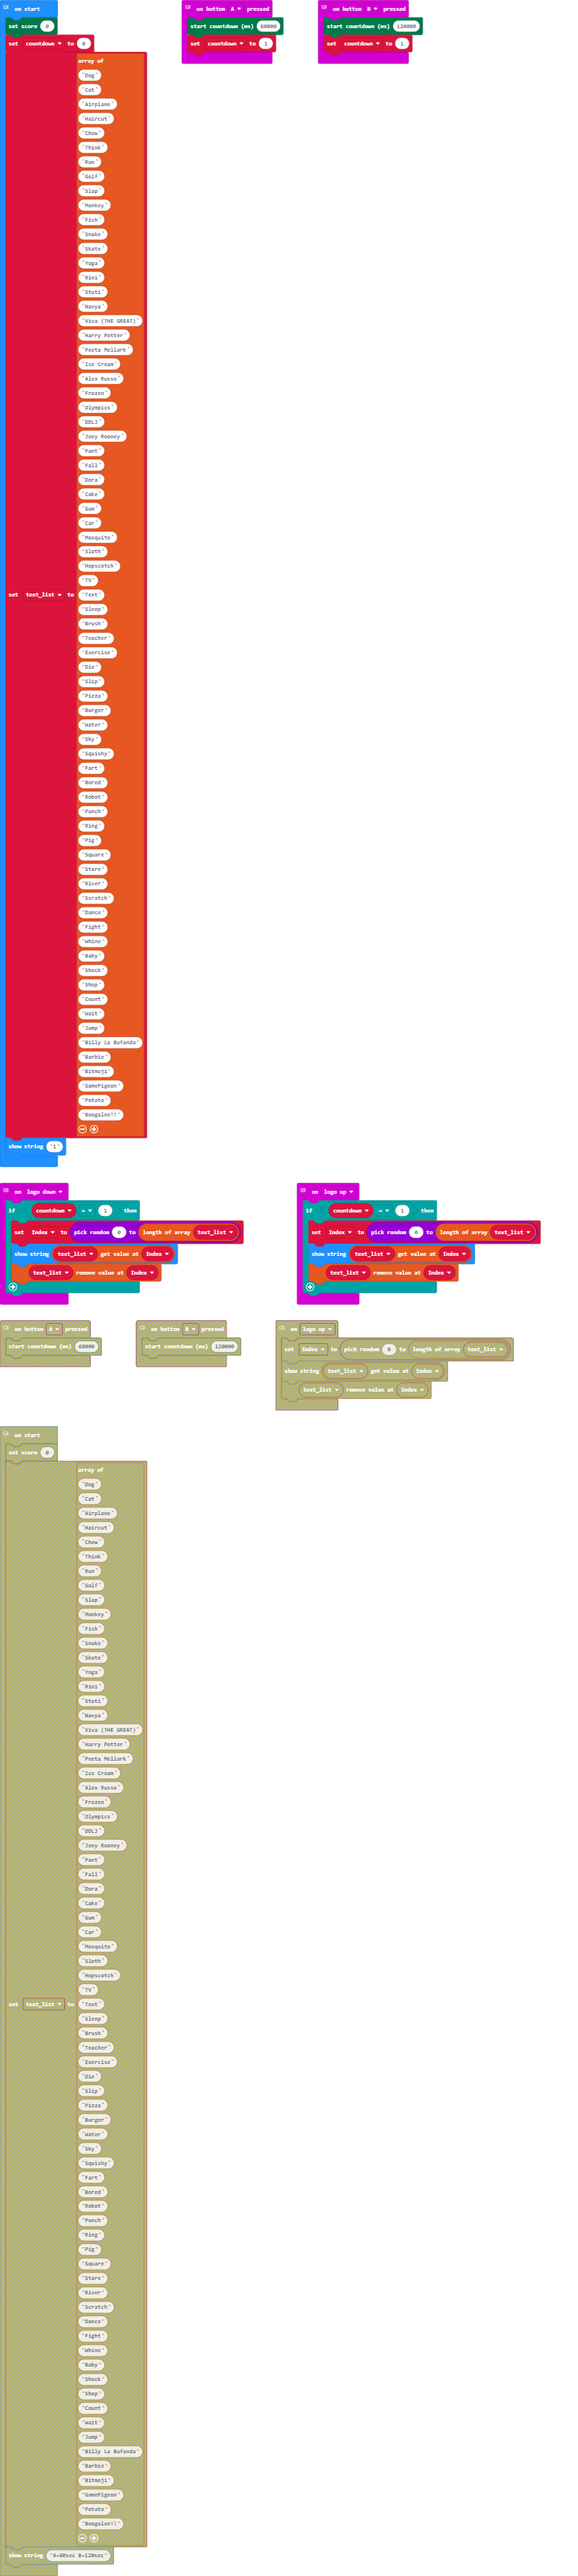
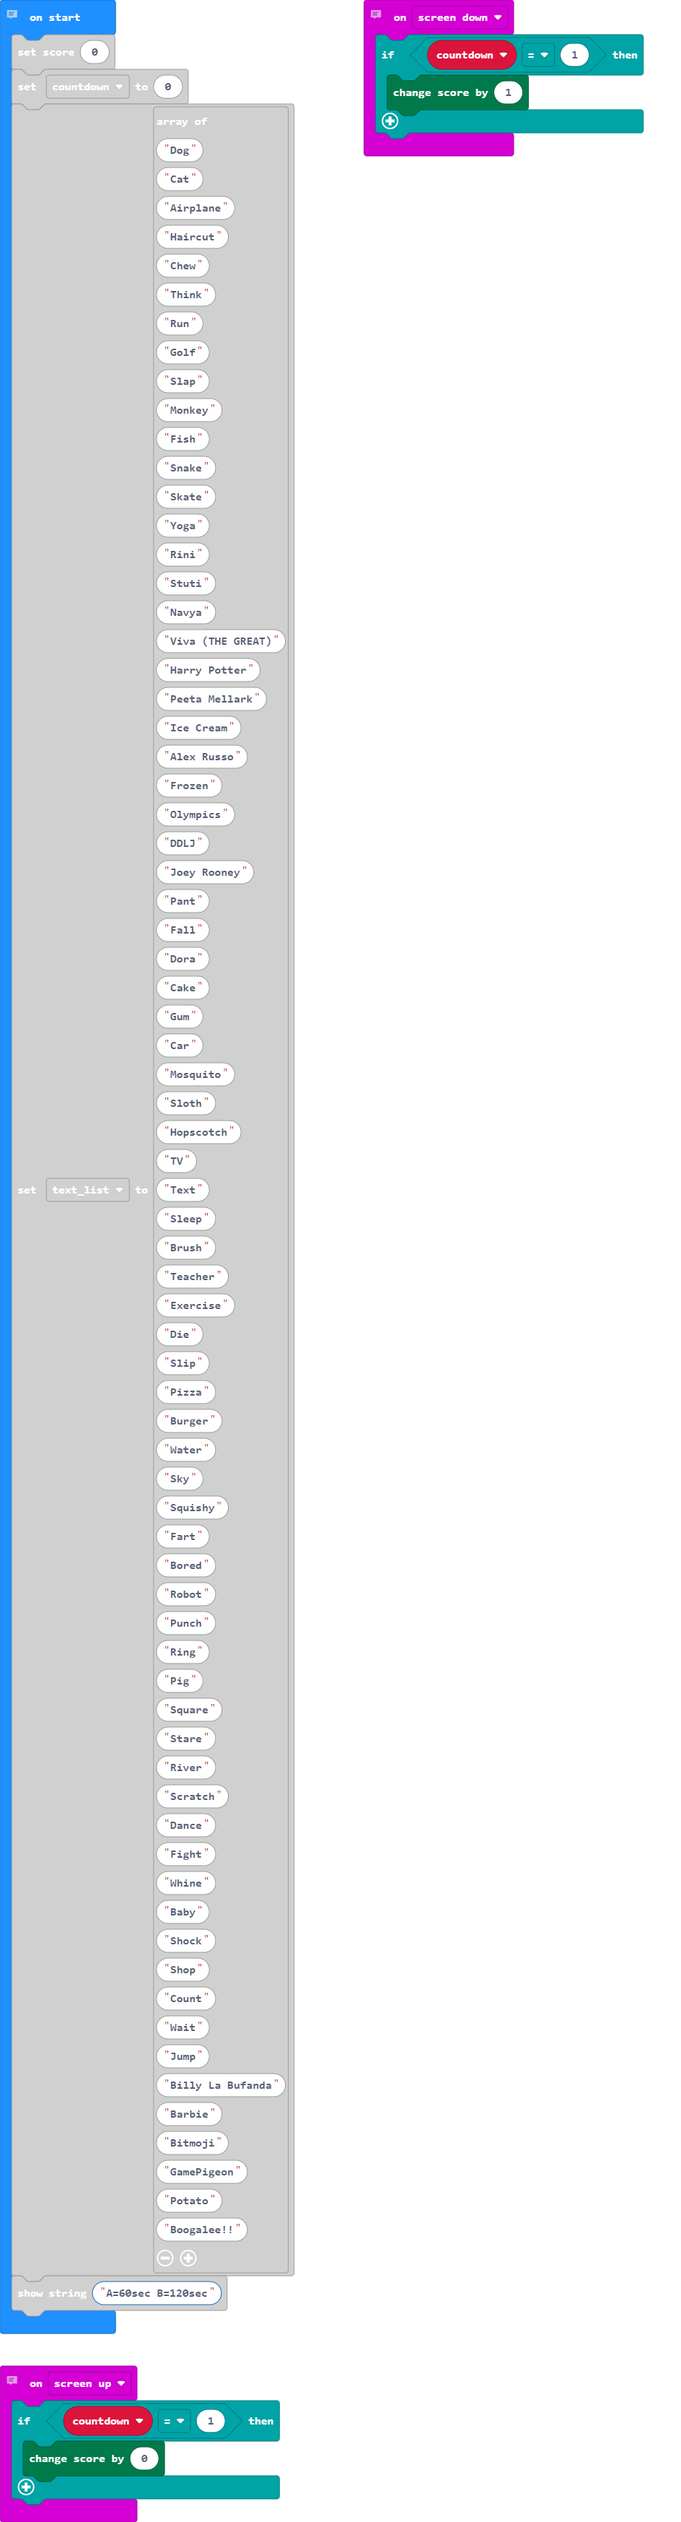
Update main.blocks, main.ts

diff --git a/main.ts b/main.ts
@@ -12,8 +12,16 @@ input.onGesture(Gesture.LogoUp, function () {
     }
 })
 // This is the screen down fuction. It adds a point to the score indicating the guess was correct.
+input.onGesture(Gesture.ScreenUp, function () {
+    if (countdown == 1) {
+        game.addScore(0)
+    }
+})
+// This is the screen down fuction. It adds a point to the score indicating the guess was correct.
 input.onGesture(Gesture.ScreenDown, function () {
-    game.addScore(1)
+    if (countdown == 1) {
+        game.addScore(1)
+    }
 })
 // This is button b function. It starts a 120 second coundown.
 input.onButtonPressed(Button.B, function () {
@@ -109,4 +117,4 @@ text_list = [
 "Potato",
 "Boogalee!!"
 ]
-basic.showString("1")
+basic.showString("A=60sec B=120sec")
